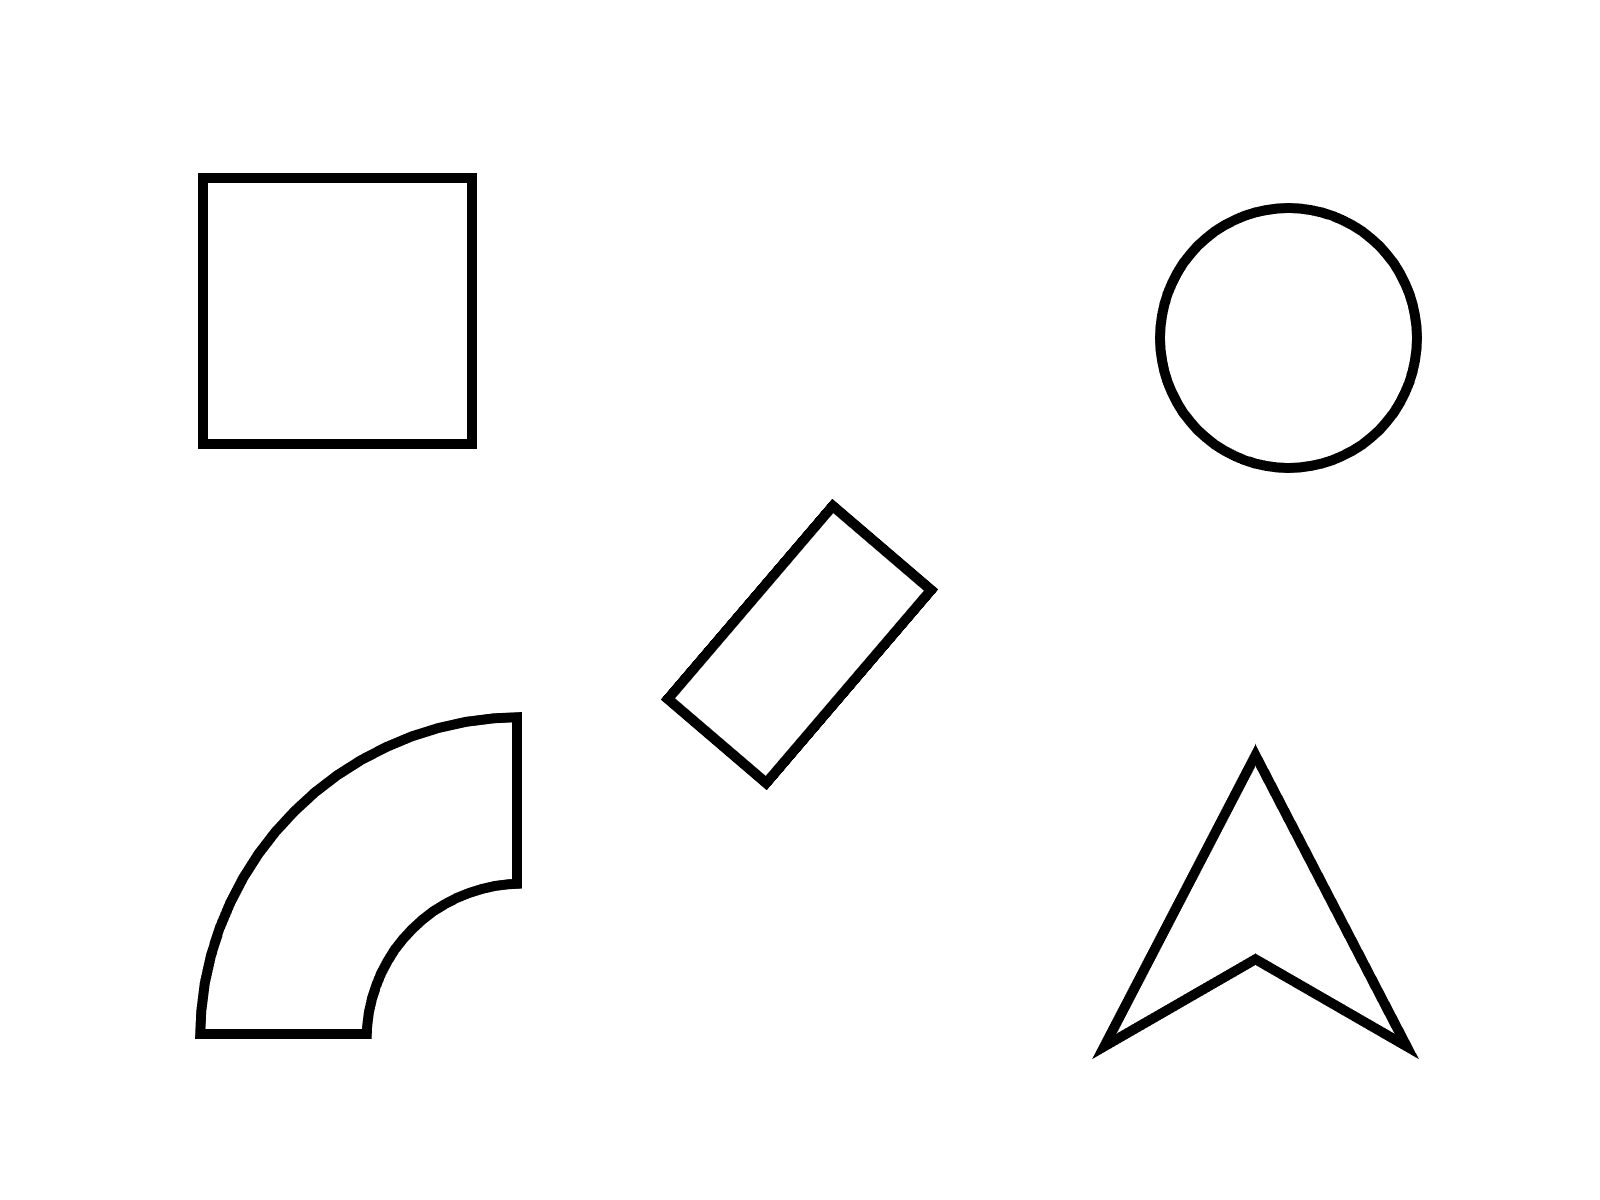
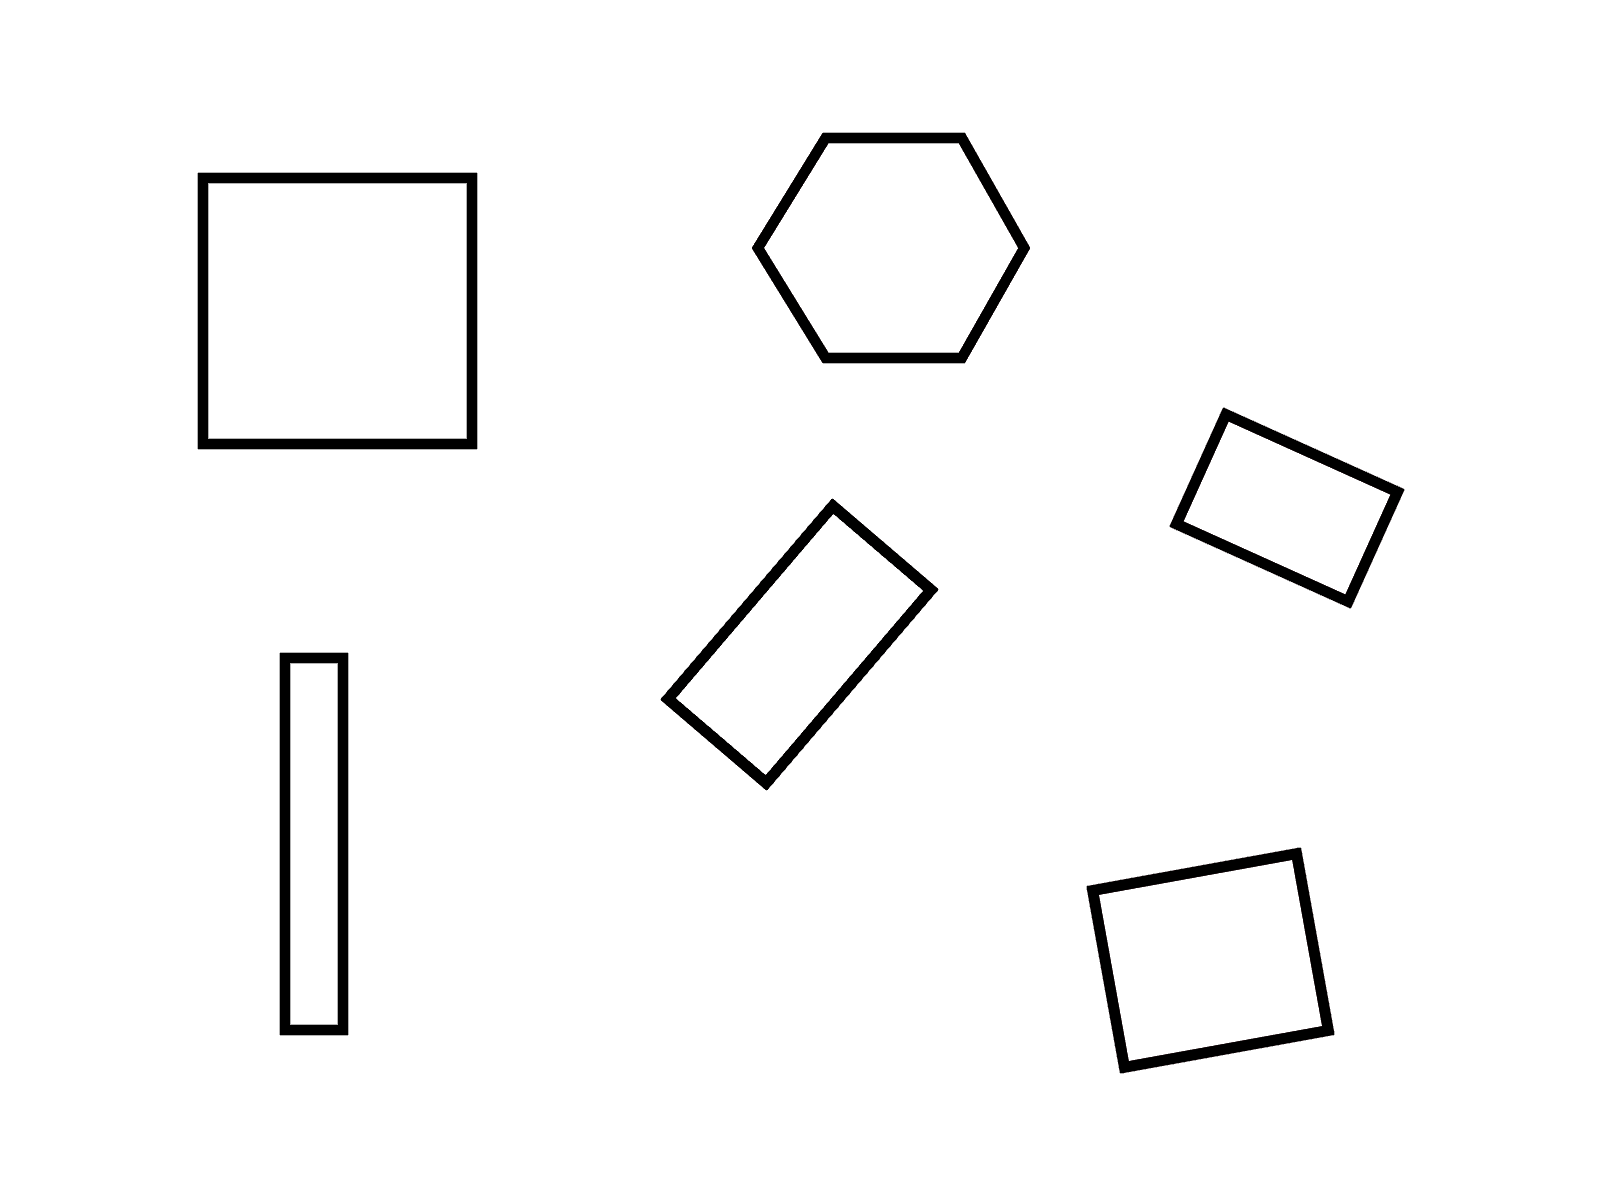
find collision
lines_collision()
map_lines
map_points

diff --git a/BEW.py b/BEW.py
@@ -3,9 +3,9 @@ import sys
 import LinkedList
 import numpy as np
 
-MAXFPS = 100
+MAXFPS = 50
 SCREEN_SIZE = 800, 600
-UNIT_LENGTH = 101  # must be odd number
+UNIT_LENGTH = 101  # must be odd numbers
 BULLET_LENGTH = 30
 
 map_img = pygame.image.load("map.png")
@@ -25,17 +25,41 @@ class BEW(object):
         self.units = LinkedList.LL()
         self.gunfire = LinkedList.LL()
         tmp = Unit()
-        tmp.p = (800, 600)
+        tmp.p = (600, 600)
         tmp.img = unit_img
+        tmp.img_rot = tmp.img
         self.units.insert(tmp)
 
     def run(self):
+        # define local variables
         fps_clk = pygame.time.Clock()
         up_act = False
         down_act = False
         left_act = False
         right_act = False
+        # lines of figure in map
+        # rectangle, rectangle, rectangle, hexagon, rectangle, rectangle
+        map_lines = \
+            [
+                ((200, 176), (200, 450)), ((200, 450), (476, 450)), ((476, 450), (476, 176)), ((476, 176), (200, 176)),
+                ((834, 505), (934, 592)), ((934, 592), (767, 789)), ((767, 789), (664, 702)), ((664, 702), (834, 505)),
+                ((282, 658), (282, 1034)), ((282, 1034), (346, 1034)), ((346, 1034), (346, 658)),
+                ((346, 658), (282, 658)), ((824, 139), (756, 250)), ((756, 250), (825, 361)), ((825, 361), (963, 361)),
+                ((963, 361), (1026, 250)), ((1026, 250), (963, 129)), ((963, 129), (824, 139)),
+                ((1224, 411), (1172, 527)), ((1172, 527), (1350, 609)), ((1350, 609), (1402, 492)),
+                ((1402, 492), (1224, 411)), ((1088, 889), (1121, 1073)), ((1121, 1073), (1332, 1034)),
+                ((1332, 1034), (1299, 852)), ((1299, 852), (1088, 889))
+             ]
+        # points of figure in map
+        map_points = \
+            [
+                (200, 176), (200, 450), (476, 450), (476, 176), (834, 505), (934, 592), (767, 789), (664, 702),
+                (282, 658), (282, 1034), (346, 1034), (346, 658), (824, 139), (756, 250), (825, 361), (963, 361),
+                (1026, 250), (963, 129), (1224, 411), (1172, 527), (1350, 609), (1402, 492), (1088, 889), (1121, 1073),
+                (1332, 1034), (1299, 852)
+            ]
 
+        # main routine
         while True:
             # set maximum fps
             fps_clk.tick(MAXFPS)
@@ -45,7 +69,7 @@ class BEW(object):
             now_map = map_img.copy()
 
             # draw map
-            draw_screen([self.units, self.gunfire], now_map)
+            draw_screen([self.gunfire, self.units], now_map)
 
             # draw screen
             self.screen.fill((255, 255, 255))
@@ -105,7 +129,6 @@ class BEW(object):
 
             if pygame.mouse.get_pressed()[0]:
                 new_shot = M_gun()
-                print('make')
                 new_shot.p = user.p
                 new_shot.direct = user.direct
                 self.gunfire.insert(new_shot)
@@ -114,38 +137,69 @@ class BEW(object):
             xy = np.subtract(np.array(pygame.mouse.get_pos()), np.array((400, 300)))
             if xy[0] == 0:
                 if xy[1] / abs(xy[1]) == 1:
-                    user.direct = 90
-                else:
                     user.direct = -90
+                else:
+                    user.direct = 90
             else:
                 user.direct = 0 - np.rad2deg(np.arctan(xy[1] / xy[0]))
                 if xy[0] < 0:
                     user.direct += 180
 
+            user.arr = pygame.surfarray.array3d(user.img_rot)
+
+            cur = self.gunfire.head.next
+            while cur != self.gunfire.tail:
+                cur.val.arr = pygame.surfarray.array3d(cur.val.img_rot)
+                cur = cur.next
+
     def out_of_map(self, bullet):
-        if 1600 > bullet.p[0] > 0 and 1200 > bullet.p[1] > 0:
-            return True
+        return 1600 > bullet.p[0] > 0 and 1200 > bullet.p[1] > 0
+
+
+# check whether the points collide given lines or not
+def line_collision(line_list, point_list):
+    def line_point(l, p):
+        x1, y1 = l[0]
+        x2, y2 = l[1]
+        x3, y3 = p
+        if x1 == x2:
+            d = (x3 - x1) ** 2
         else:
-            return False
+            m = (y2 - y1) / (x2 - x1)
+            d = ((m * (x3 - x1) + (y1 - y3)) ** 2) / (1 + m**2)
+        return d <= 2 and ((x1 <= x3 <= x2) or (x2 <= x3 <= x1)) and ((y1 <= y3 <= y2) or (y2 <= y3 <= y1))
+
+    res = []
+    for i in range(len(point_list)):
+        res.append(False)
+        for j in range(len(line_list)):
+            if line_point(line_list[j], point_list[i]):
+                res[-1] = True
+                break
+    return res
 
 
+# bullet class
 class M_gun(object):
     def __init__(self):
         self.p = [0, 0]
         self.img = temp_bullet_img
+        self.img_rot = self.img
         self.direct = 0
-        self.leng = BULLET_LENGTH
+        self.arr = None
 
     def move(self):
         self.p = self.p[0] + np.cos(np.deg2rad(self.direct))*50, self.p[1] - np.sin(np.deg2rad(self.direct))*50
 
 
+# wandering unit including user unit
 class Unit(object):
     def __init__(self):
         self.p = [0, 0]
         self.img = None
+        self.img_rot = None
         self.direct = 0  # deg
-        self.leng = UNIT_LENGTH
+        self.arr = None
 
     def move(self, d):
         self.p = self.p[0] + d[0], self.p[1] + d[1]
@@ -163,7 +217,8 @@ def draw_screen(ls, screen):
         cur = LL.head.next
         while cur != LL.tail:
             new_img = pygame.transform.rotate(cur.val.img, cur.val.direct)
-            new_p = cur.val.p[0] - int(cur.val.leng / 2), cur.val.p[1] - int(cur.val.leng / 2)
+            cur.val.img_rot = new_img
+            new_p = cur.val.p[0] - int(new_img.get_size()[0] / 2), cur.val.p[1] - int(new_img.get_size()[1] / 2)
             screen.blit(new_img, new_p)
             cur = cur.next
 
